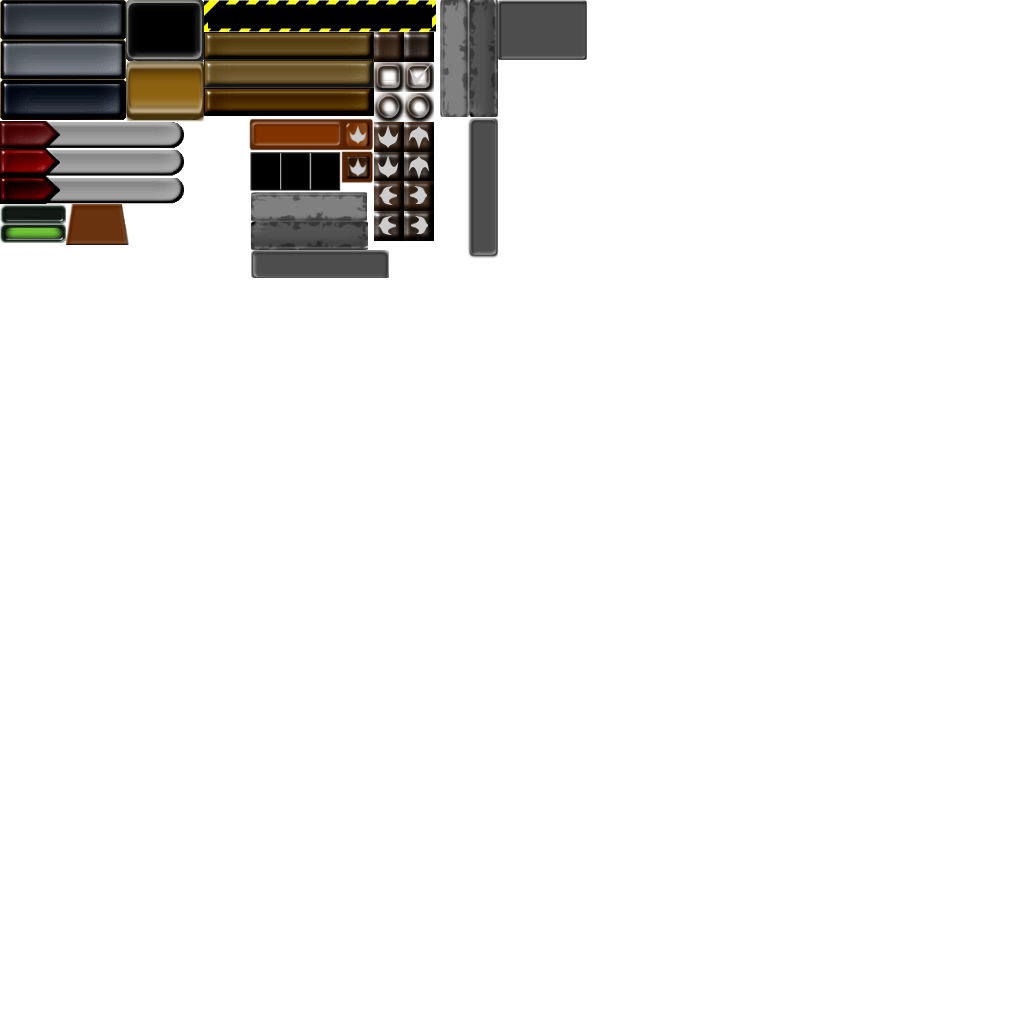
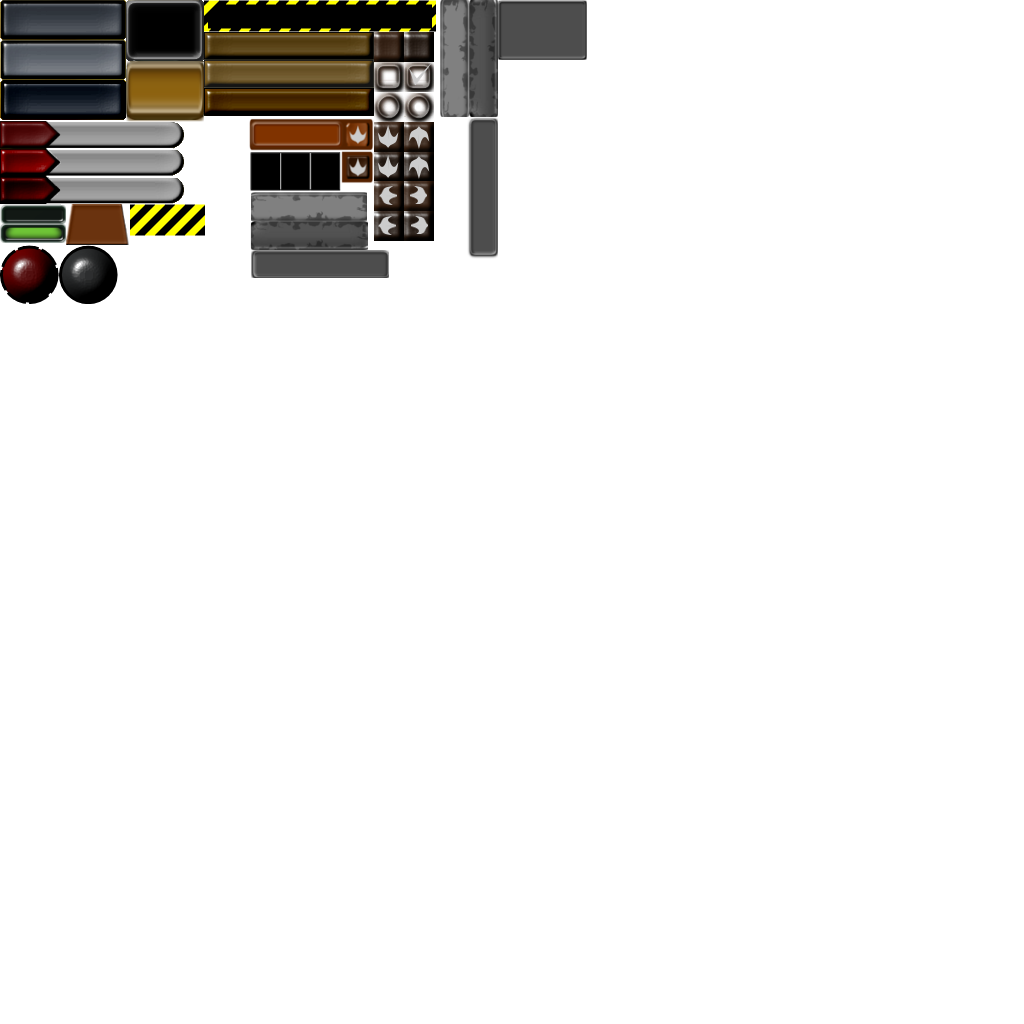
redesign HUD

Changed region(s): [[0.0, 0.2188, 0.125, 0.3125], [0.125, 0.1875, 0.2188, 0.25]]

diff --git a/game/LevelHud.qml b/game/LevelHud.qml
@@ -25,8 +25,8 @@ Pane {
     anchors.left: parent.left
     anchors.top: parent.top
     anchors.bottom: parent.bottom
-    anchors.margins: -9
-    width: 250
+    anchors.margins: -4
+    width: 275
   }
 
   HudMenu {
@@ -34,10 +34,10 @@ Pane {
     anchors.left: terminalPane.right
     anchors.top: parent.top;
     anchors.bottom: parent.bottom
-    anchors.topMargin: 20
+    anchors.topMargin: 25
     anchors.bottomMargin: 1
     anchors.leftMargin: 5
-    width: 80
+    width: 50
     onOpenInventory: levelHud.openInventory()
     onOpenMenu: levelHud.openMenu()
   }
@@ -49,7 +49,7 @@ Pane {
     anchors.left: menuPane.right
     width: 400
     anchors.top: parent.top
-    anchors.topMargin: 20
+    anchors.topMargin: 10
   }
 
   HudItemSlots {
@@ -73,10 +73,22 @@ Pane {
     }
   }
 
+  HudCombatControls {
+    id: combatControls
+    anchors {
+      bottom: parent.bottom
+      right: countersDisplay.left
+      top: parent.top
+      rightMargin: 10
+      topMargin: 20
+    }
+    width: 100
+  }
+
   Column {
     id: countersDisplay
-    anchors.left: actionPointPane.right
-    anchors.leftMargin: 20
+    anchors.right: rightMenu.left
+    anchors.rightMargin: 10
     anchors.bottom: parent.bottom
 
     Text {
@@ -128,28 +140,6 @@ Pane {
       text: "Pipboy"
       Layout.fillWidth: true
       onClicked: application.pushView("game/PipBoy.qml", {gameController: gameController, levelController: levelController})
-    }
-  }
-
-  Pane {
-    anchors {
-      right: rightMenu.left
-      bottom: parent.bottom
-      left: countersDisplay.right
-      top: parent.top
-      margins: 5
-    }
-
-    background: UiStyle.Pane {}
-
-    Column {
-      anchors.centerIn: parent
-
-      UiStyle.TinyButton {
-        text: "Pass turn"
-        enabled: levelController.combat
-        onClicked: levelController.passTurn(levelController.player)
-      }
     }
   }
 }

diff --git a/game/hud/HudCombatControls.qml b/game/hud/HudCombatControls.qml
@@ -1,0 +1,49 @@
+import QtQuick 2.15
+import QtQuick.Controls 2.15
+import "qrc:/assets/ui" as UiStyle
+
+Pane {
+  id: root
+  clip: true
+  background: Image { source: "qrc:/assets/ui/pane.png" }
+
+  state: "no-combat"
+
+  states: [
+    State {
+      name: "in-combat"; when: levelController.combat
+      PropertyChanges { target: overlay; y: root.y - root.height }
+    },
+    State { name: "no-combat"; when: !levelController.combat }
+  ]
+
+  transitions: [
+    Transition {
+      to: "in-combat"
+      PropertyAnimation { target: overlay; property: "y" }
+    },
+    Transition {
+      to: "no-combat"
+      PropertyAnimation { target: overlay; property: "y" }
+    }
+  ]
+
+  onStateChanged: console.log("ON ZTATE CHANGED MAGGLE", state)
+
+  Column {
+    anchors.centerIn: parent
+
+    UiStyle.TinyButton {
+      text: i18n.t("Pass turn")
+      onClicked: levelController.passTurn(levelController.player)
+    }
+  }
+
+ Image {
+   id: overlay
+   source: "qrc:/assets/ui/hud.png"
+   sourceClipRect: Qt.rect(130, 204, 75, 32)
+   width: parent.width
+   height: parent.height
+ }
+}

diff --git a/game/hud/HudActionPoints.qml b/game/hud/HudActionPoints.qml
@@ -6,6 +6,7 @@ Item {
   property int actionPoints
   id: actionPointPane
   height: 15
+  visible: levelController.combat
 
   Row {
     anchors.top: parent.top
@@ -17,17 +18,10 @@ Item {
       delegate: Image {
         property bool available: index < actionPoints
         source: "qrc:/assets/ui/hud.png"
-        sourceClipRect: Qt.rect(available ? 404 : 374, 92, 30, 30)
+        sourceClipRect: Qt.rect(available ? 0 : 59, 246, 59, 59)
         height: 15
         width:  15
       }
     }
-  }
-
-  ColorOverlay {
-    source: parent
-    anchors.fill: parent
-    color: "black"
-    visible: !levelController.combat
   }
 }

diff --git a/game/hud/HudMenu.qml b/game/hud/HudMenu.qml
@@ -2,9 +2,8 @@ import QtQuick 2.15
 import QtQuick.Controls 2.15
 import "qrc:/assets/ui" as UiStyle
 
-Pane {
+Item {
   id: menuPane
-  background: UiStyle.Pane {}
 
   signal openMenu()
   signal openInventory()

diff --git a/game/Barter.qml b/game/Barter.qml
@@ -108,5 +108,4 @@ Item {
       }
     }
   }
-
 }
